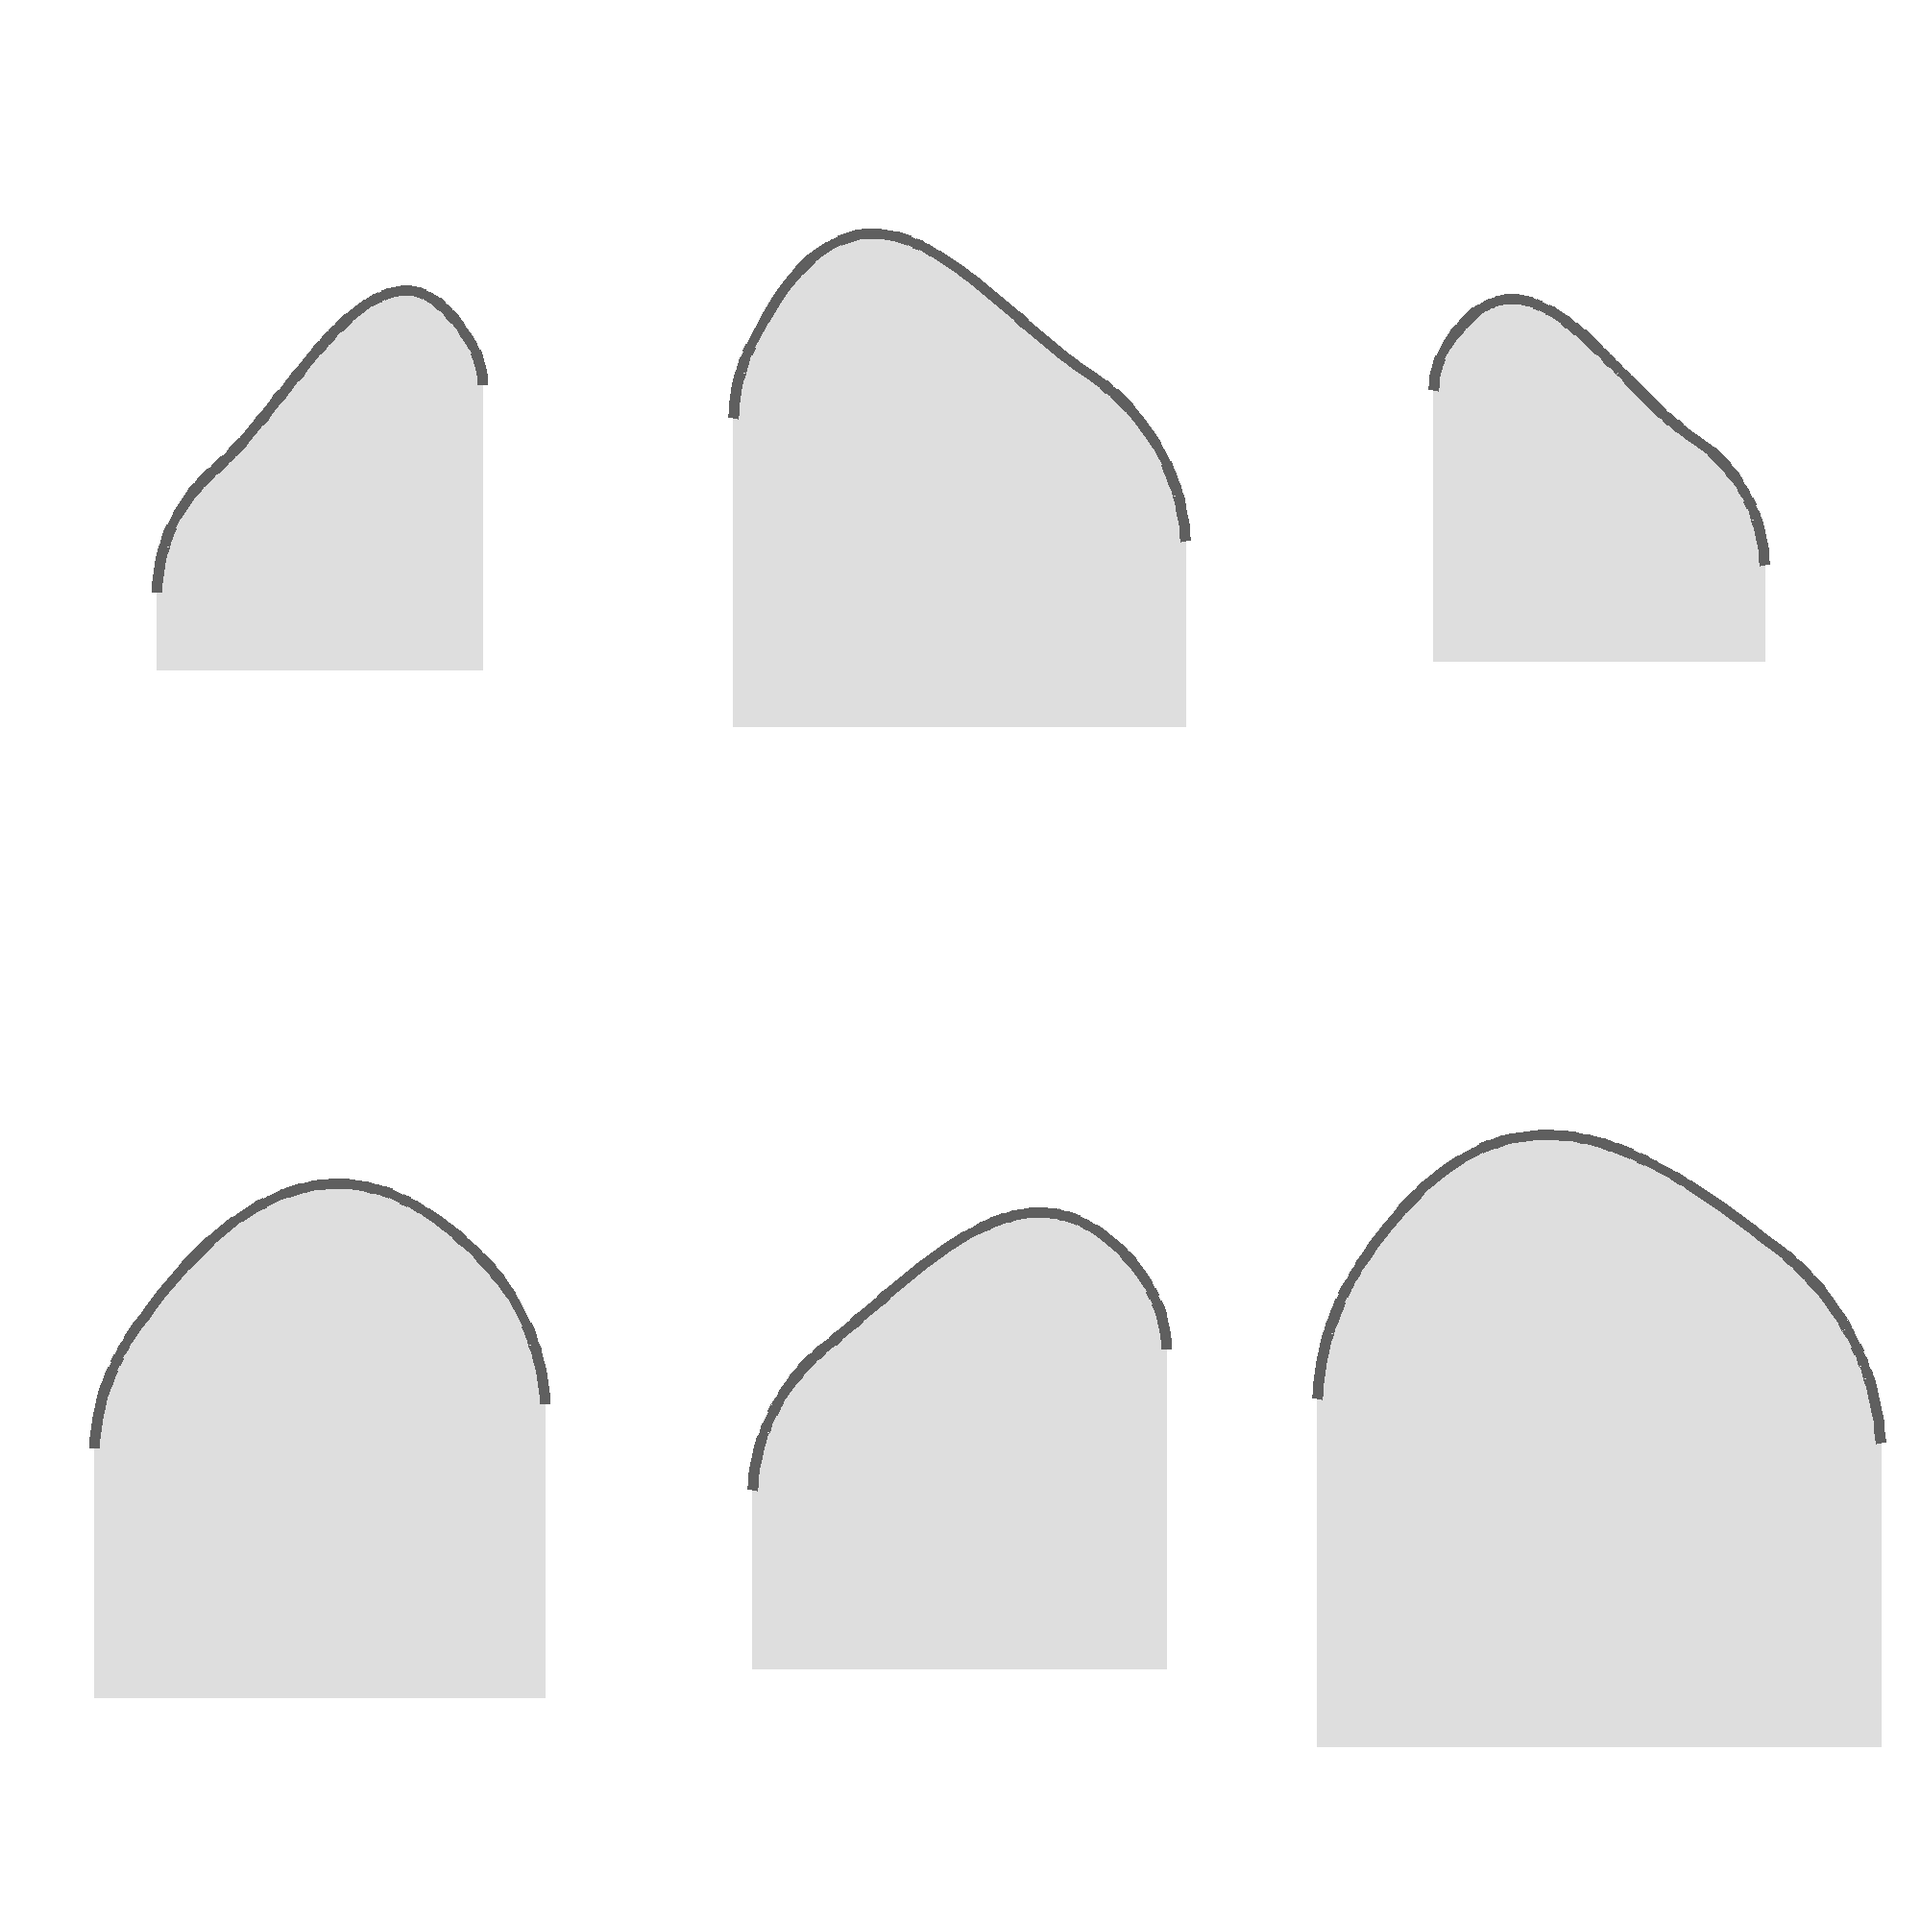
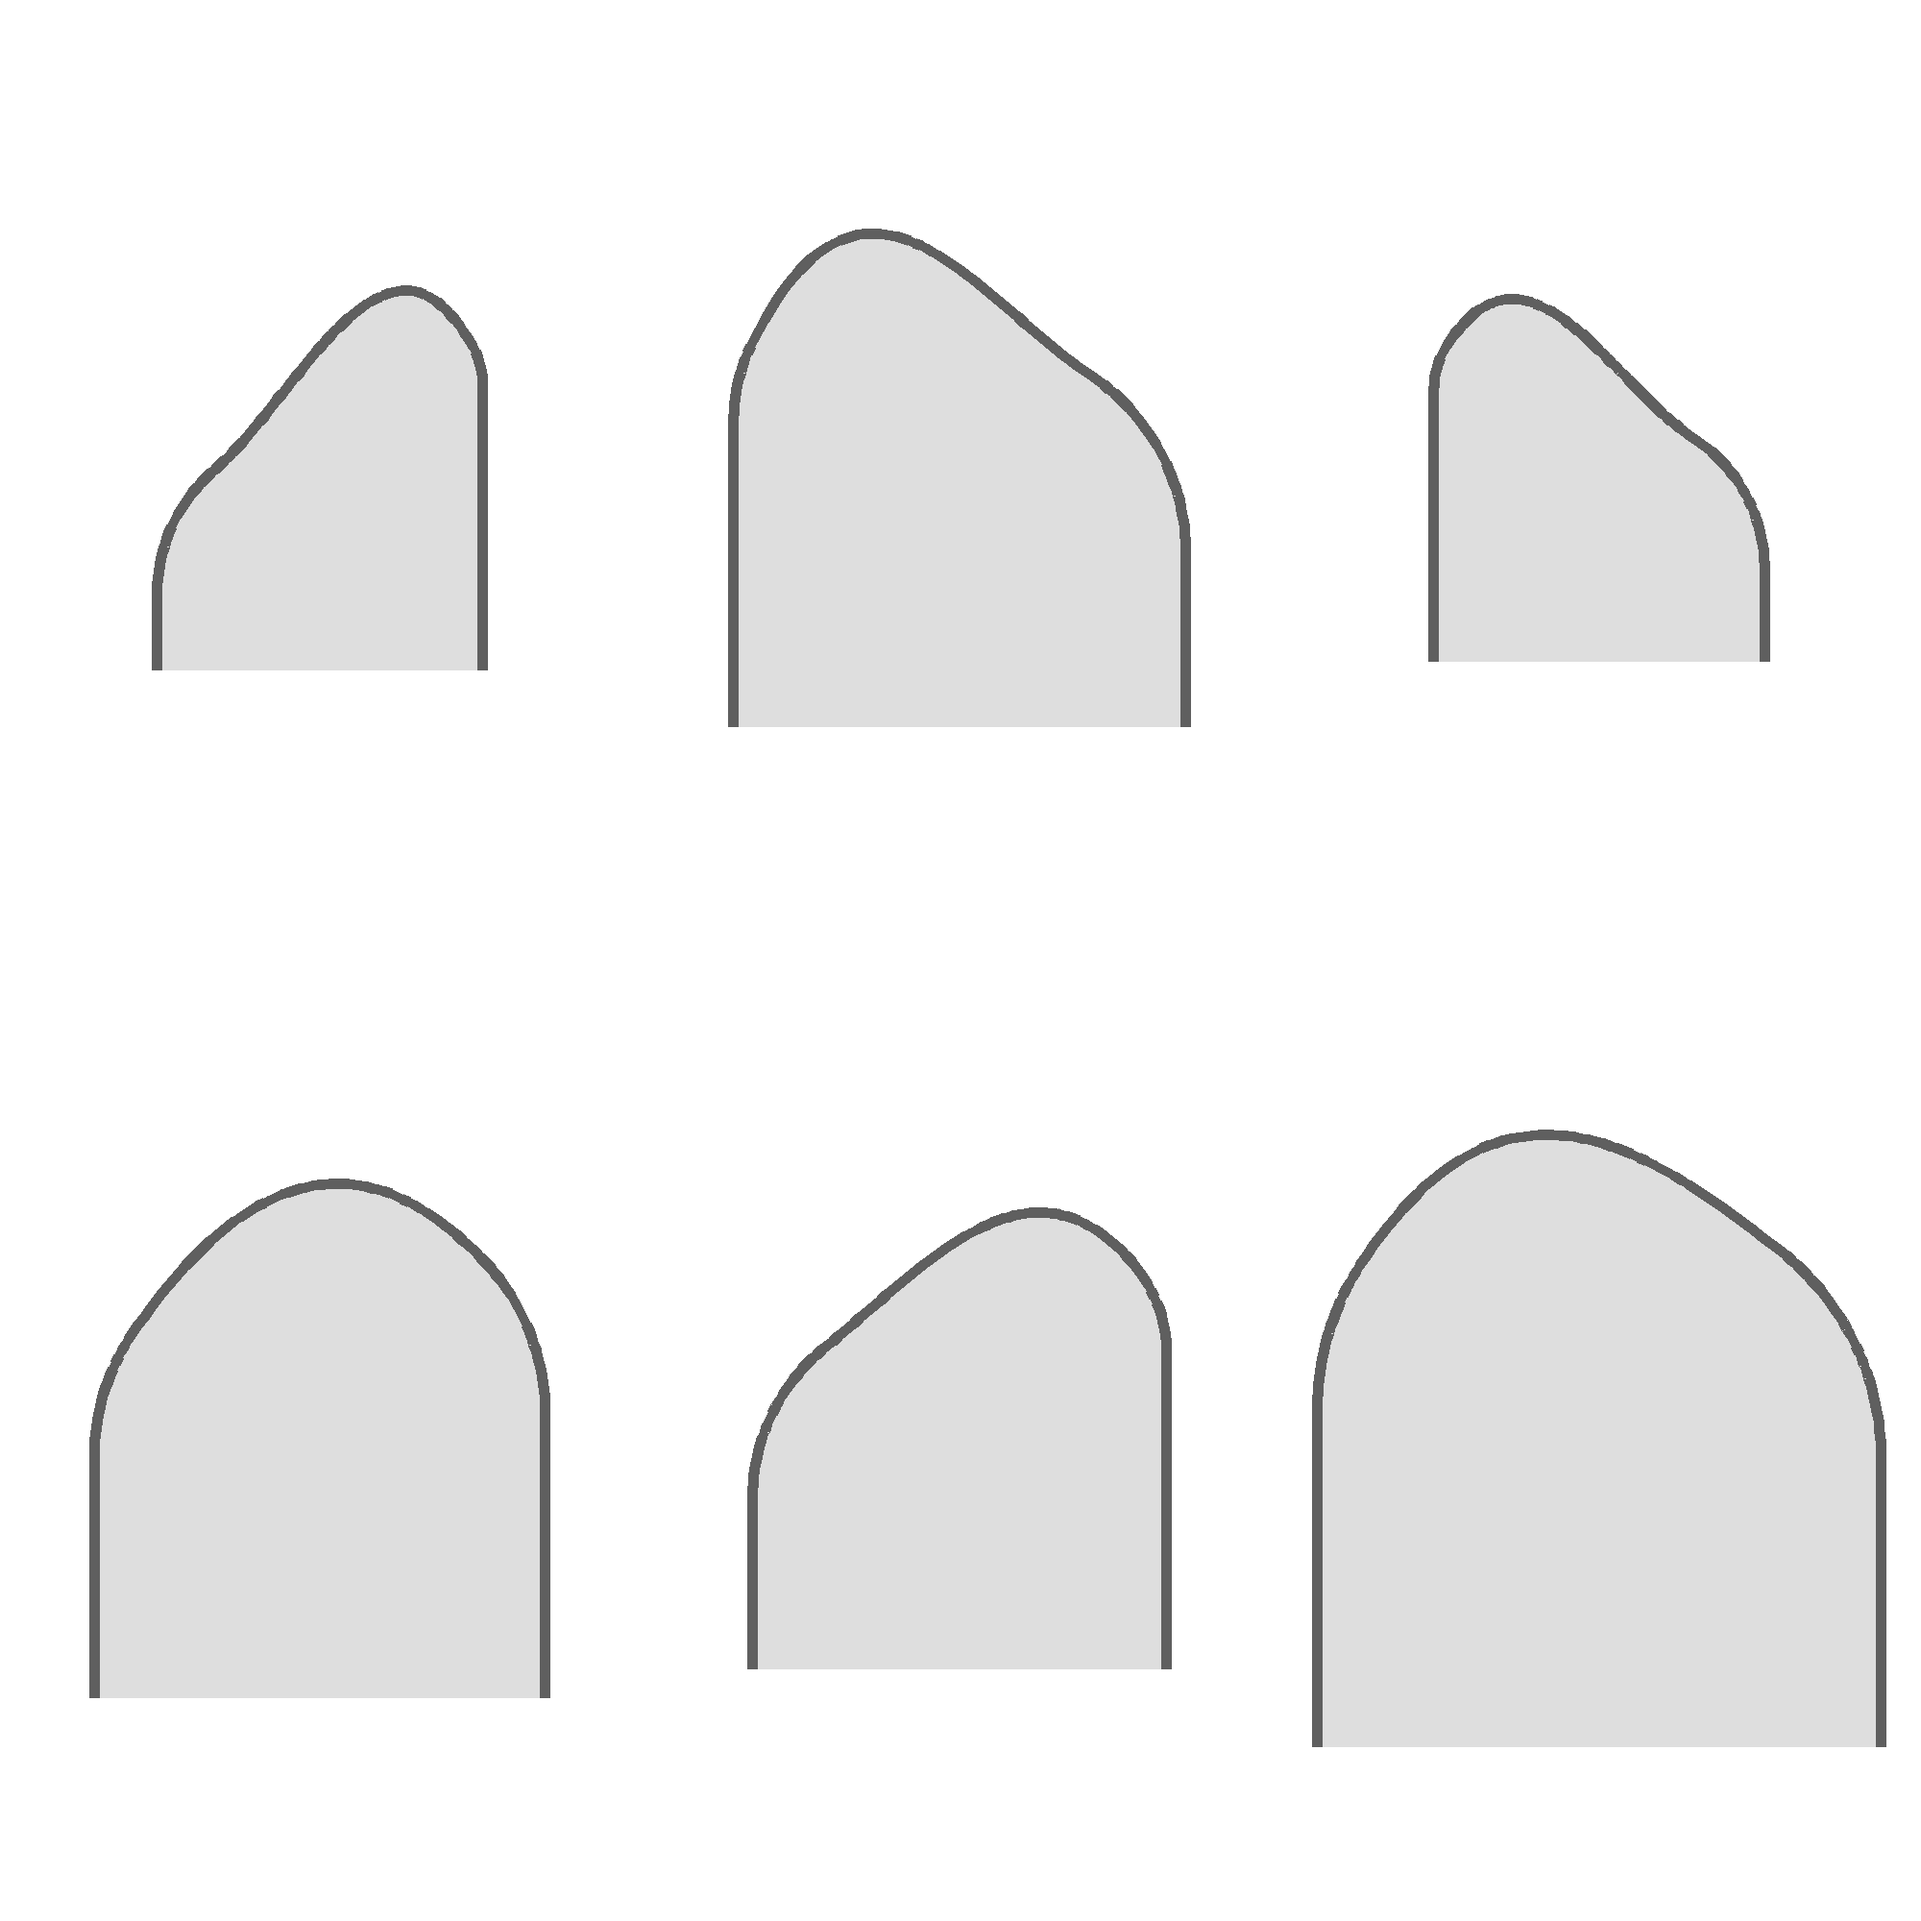
Холмы: линия от основания до основания (концы на одной горизонтали), промпт v7
Claude-Session: https://claude.ai/code/session_01V1ND1TKADLpK8q5yuLYU2P

diff --git a/паттерн_холмы/направляющие_дуги.py b/паттерн_холмы/направляющие_дуги.py
@@ -64,6 +64,7 @@ for sh_ in range(sheets):
         P = sp['P'] * scale; top = sp['top'] * scale; hh = sp['hh'] * scale
         xm = (P[:, 0].min() + P[:, 0].max()) / 2
         Q = [(cx + x - xm, cy - hh / 2 + (y - top)) for x, y in P]; bottom = cy + hh / 2
-        d.polygon(Q + [(Q[-1][0], bottom), (Q[0][0], bottom)], fill=(222, 222, 222)); d.line(Q, fill=(95, 95, 95), width=11, joint='curve')
+        Q = [(Q[0][0], bottom)] + Q + [(Q[-1][0], bottom)]                  # линия идёт по верху, плечам и вниз по обеим сторонам до основания: оба конца на одной горизонтали
+        d.polygon(Q, fill=(222, 222, 222)); d.line(Q, fill=(95, 95, 95), width=11, joint='curve')
     im.save(os.path.join(a.out, f'дуги_лист_{sh_ + 1}.png')); print('лист', sh_ + 1)
 json.dump([dict(w=i['w'], rise=i['rise'], apex=i['apex'], tilt=i['tilt']) for i in sel], open(os.path.join(a.out, 'выбранные_дуги.json'), 'w'))

diff --git a/паттерн_холмы/ПРОМПТЫ_холмы.md b/паттерн_холмы/ПРОМПТЫ_холмы.md
@@ -157,3 +157,20 @@
 
 Приложены: 1) направляющая с серыми силуэтами, 2) образец рулона с узором (кроп без свитка и полей).
 ```
+
+# v7: линия от основания до основания (оба конца на одной горизонтали), симметрия не нужна
+Серая линия силуэта теперь идёт от основания слева, по плечу, вершине и другому плечу вниз до основания справа; начало и конец на одной горизонтали. Схема расстановки по этим силуэтам: дыр 0.000%.
+```
+РИСУЙ: шесть отдельных ПОЛНЫХ холмиков-куполов для паттерна в духе японской чешуи (seigaiha), нарисованных гуашью и акварелью вручную, на чистом белом фоне. Форма, размер и положение каждого холмика заданы первой приложенной картинкой с серыми силуэтами, стиль задан второй приложенной картинкой с рулоном.
+
+1. ФОРМАТ: квадрат 1:1, фон чисто белый #FFFFFF, без теней, без текстуры бумаги, без рамки. Шесть холмиков стоят в тех же местах и того же размера, что шесть серых силуэтов на первой картинке (две строки по три).
+2. ФОРМА: каждый холмик, это ЦЕЛЫЙ купол по своему серому силуэту, ничего не обрезано. Серая линия начинается внизу на основании с одной стороны, поднимается по боку и плечу, проходит вершину и спускается по другому плечу и боку вниз, заканчиваясь на основании: начало и конец линии лежат на одной горизонтали, на нижнем ровном основании. Холмики могут быть несимметричными, форму, ширину, высоту, положение вершины и изгиб плеч не менять и не выравнивать, все шесть разные, как на силуэтах.
+3. УСТРОЙСТВО КАЖДОГО, как на втором изображении (образце): серая линия силуэта, это середина широкого мазка тёмной сине-стальной краски (#1F4358); мазок идёт по ВСЕЙ серой линии от одного конца до другого, живой, с лёгкой щетиной кисти по краю, толщиной около 6% ширины холмика, к концам у основания чуть сужается; внутри мазка, вдоль него по всей длине, одна или две тонкие параллельные светлые линии, белая и бледно-мятная, чёткие и непрерывные; внутри всего силуэта, до ровного основания, заливка. Мазок, линии и заливка плотно примыкают друг к другу, без белых щелей.
+4. ЗАЛИВКА: ровная спокойная акварельная заливка одного и того же сине-серо-бирюзового тона на всех холмиках (#5F8DA0), с лёгкой мягкой пятнистостью бумаги, едва заметной градацией светлее к низу, до самого основания. Разница в тоне между холмиками совсем небольшая, до 6% яркости. Без крупных потёков, клякс, брызг, тёмных каёмок у пятен, белых проплешин. Цвет чистый.
+5. СТИЛЬ: перенять манеру образца целиком: мазок дуги, светлые линии, спокойную акварельную заливку, цвета. Все шесть холмиков в одном стиле, нарисованы одной рукой.
+6. СЕРЫЕ СИЛУЭТЫ: это только подсказка формы. Серую линию и серую заливку не рисовать, результат на чисто белом фоне без серого.
+7. НЕЛЬЗЯ: серые силуэты и серую линию в результате, фон любого цвета кроме белого, тени, рамки, подписи, перекрытие холмиков, смена формы или размера холмика, выравнивание или симметризация, начало и конец линии на разной высоте, дуга только сверху без боков, обрезанная или укороченная юбка, рваный или размытый нижний край, крупные потёки и кляксы, брызги, белые щели между дугой и заливкой, особые формы, разные цвета заливки.
+8. РЕЗУЛЬТАТ: белый лист, шесть отдельных целых куполов точно по силуэтам, концы линии на одной горизонтали, стиль образца, чистая заливка в одном тоне.
+
+Приложены: 1) направляющая с серыми силуэтами, 2) образец рулона с узором (кроп без свитка и полей).
+```
